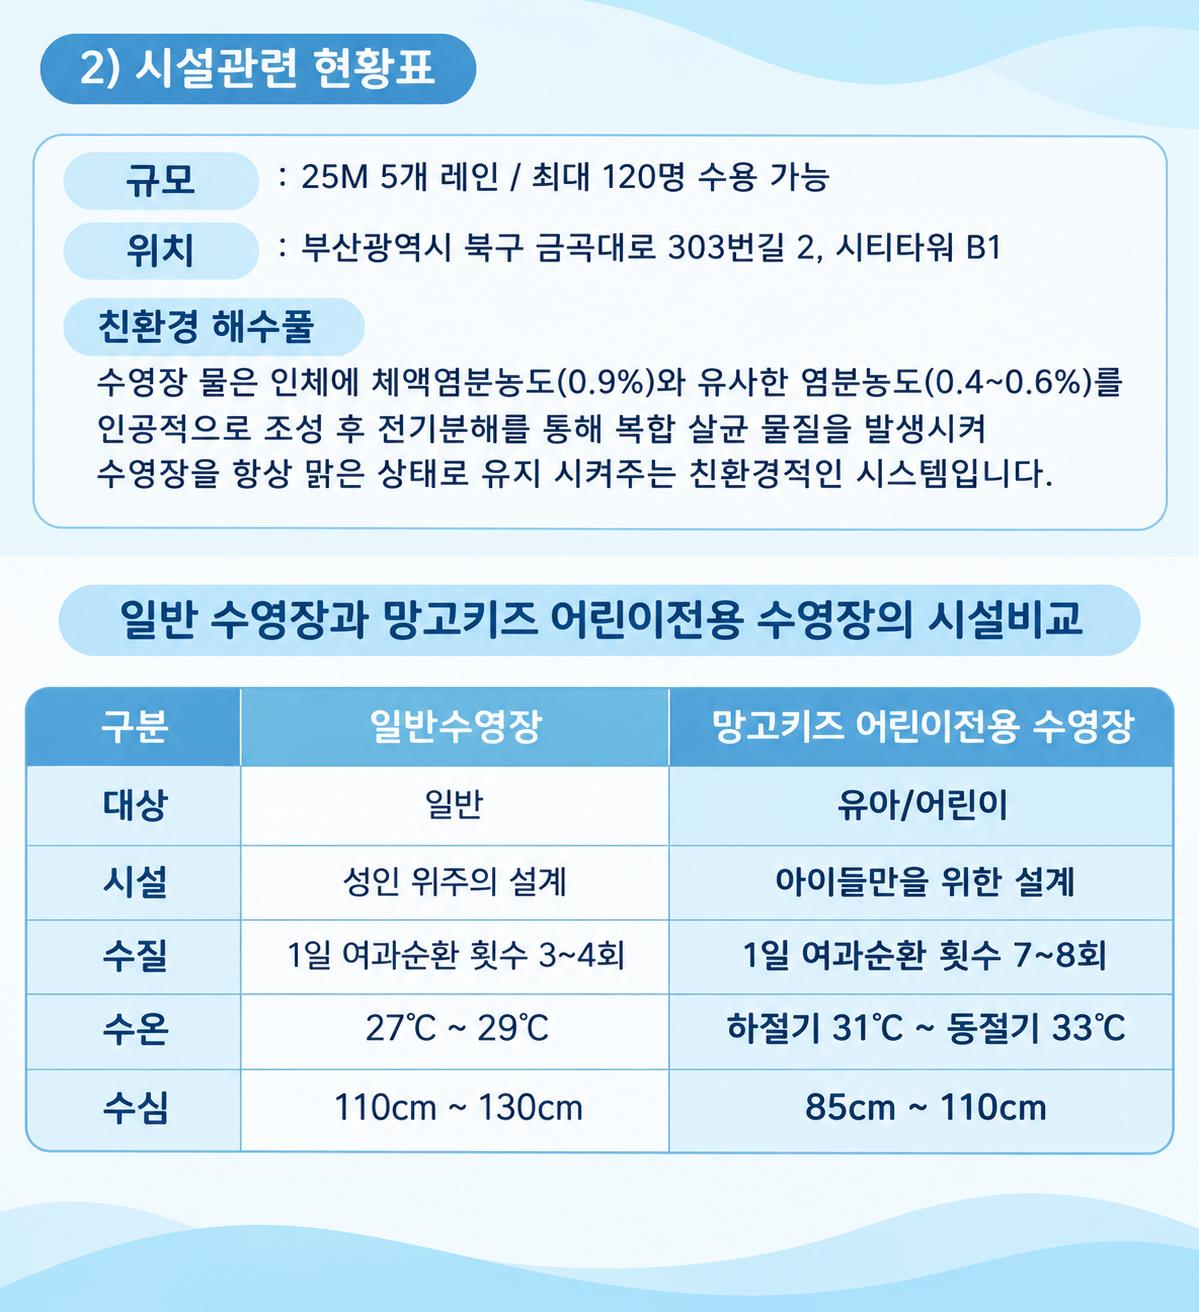
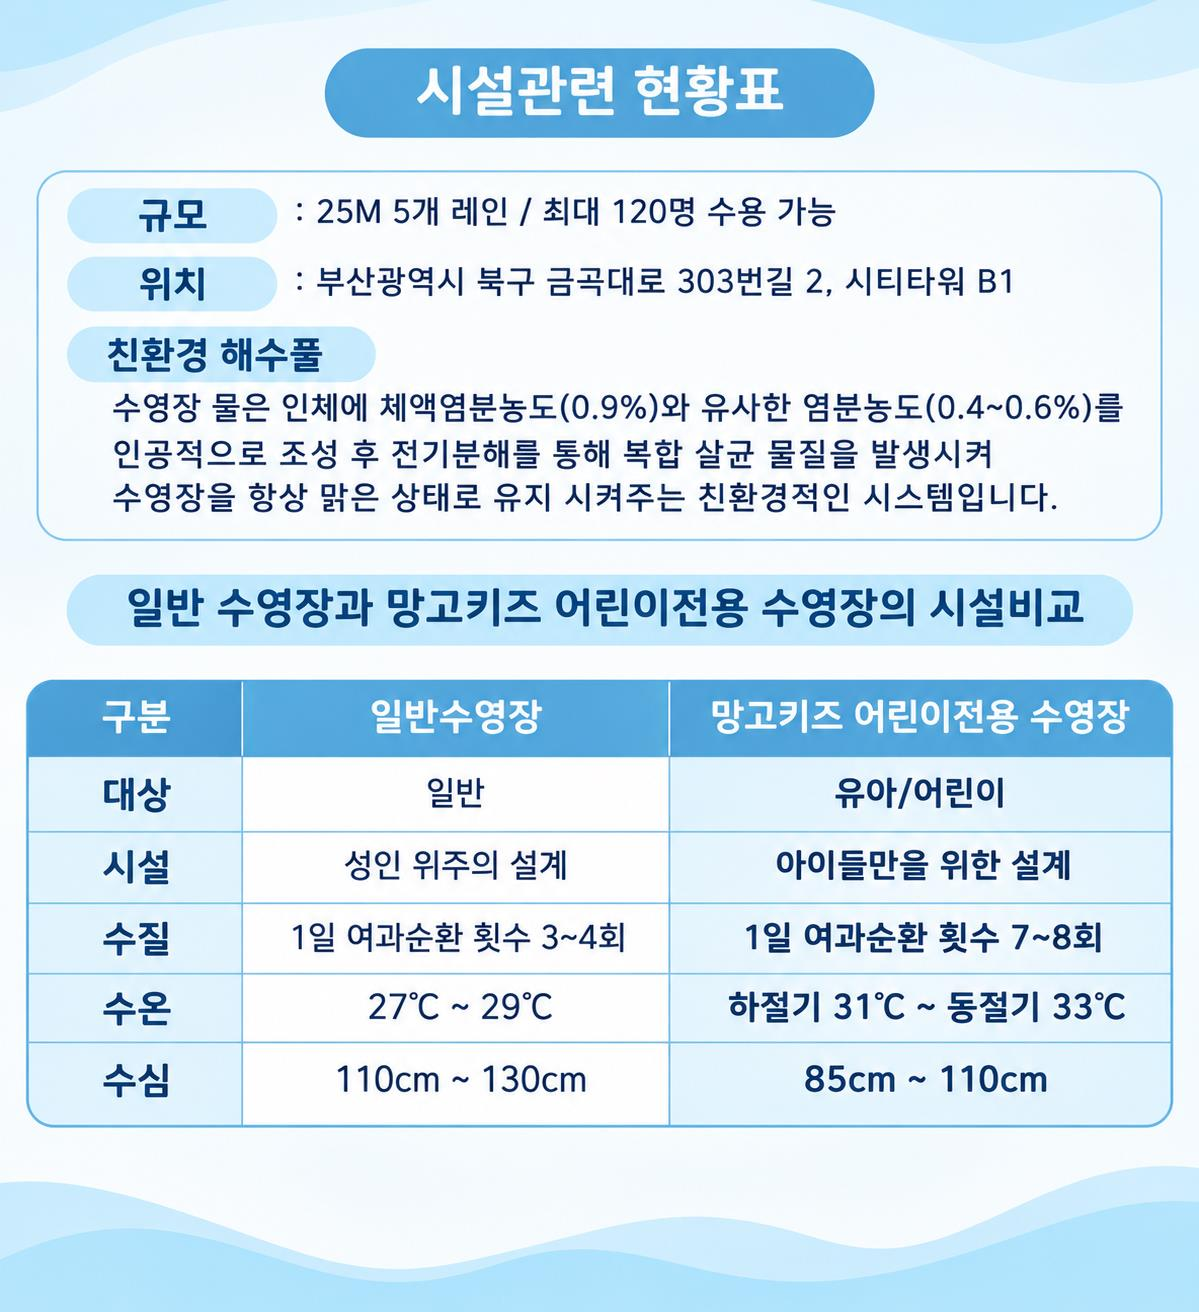
화명본점 현황표 교체 및 시설 상세 안내 추가

diff --git a/index.html b/index.html
@@ -214,7 +214,22 @@
     <section class="section" id="hwamyeong-facilities" aria-labelledby="hwamyeong-facilities-title">
       <div class="wrap">
         <div class="section-heading"><h2 id="hwamyeong-facilities-title">화명본점 시설 안내</h2><p>부산 북구 금곡대로303번길 2 지하1층</p></div>
-        <a href="./assets/hwamyeong-facility-guide.jpg" style="display:block;max-width:800px;margin:0 auto"><img src="./assets/hwamyeong-facility-guide.jpg" width="1199" height="1312" loading="lazy" style="display:block;width:100%;height:auto" alt="화명본점 시설 현황표 크게 보기. 25m 레인 5개, 최대 120명, 수심 85~110cm. 친환경 해수풀과 일반 수영장 시설 비교."></a>
+        <div class="facility-layout">
+          <figure><a href="./assets/hwamyeong-facility-guide.jpg?v=5da4da39"><img src="./assets/hwamyeong-facility-guide.jpg?v=5da4da39" width="1199" height="1312" loading="lazy" alt="화명본점 시설 현황표 원본 크게 보기"></a><figcaption>그림을 누르면 원본 크기로 볼 수 있어요.</figcaption></figure>
+          <div>
+            <h3>25m 레인 5개를 갖춘 어린이풀</h3><p>최대 120명을 수용할 수 있습니다. 어린이풀 옆에는 스플래쉬 풀이 있고, 학부모 관람석에서는 유리창 너머로 수업을 볼 수 있습니다.</p>
+            <h3>친환경 해수풀</h3><p>수영장 물의 염분 농도를 0.4~0.6%로 맞추고, 전기분해로 생성한 살균 물질로 수질을 관리합니다.</p>
+            <table><caption>시설 현황표 기준 비교</caption><thead><tr><th scope="col">구분</th><th scope="col">일반 수영장</th><th scope="col">망고키즈 화명본점</th></tr></thead>
+              <tbody>
+                <tr><th scope="row">대상</th><td>일반</td><td>유아·어린이</td></tr>
+                <tr><th scope="row">시설</th><td>성인 위주의 설계</td><td>어린이를 위한 설계</td></tr>
+                <tr><th scope="row">여과 순환</th><td>하루 3~4회</td><td>해수풀 하루 7~8회</td></tr>
+                <tr><th scope="row">수온</th><td>27~29℃</td><td>하절기 31℃ · 동절기 33℃</td></tr>
+                <tr><th scope="row">수심</th><td>110~130cm</td><td>85~110cm</td></tr>
+              </tbody>
+            </table>
+          </div>
+        </div>
         <div class="facility-photos">
           <figure><a href="./assets/hwamyeong-kids-pool.jpg"><img src="./assets/hwamyeong-kids-pool.jpg" width="1280" height="960" loading="lazy" alt="화명본점 어린이풀의 수영 레인"></a><figcaption>어린이풀</figcaption></figure>
           <figure><a href="./assets/hwamyeong-splash-pool.jpg"><img src="./assets/hwamyeong-splash-pool.jpg" width="1280" height="960" loading="lazy" alt="어린이풀 옆 스플래쉬 풀의 고래 벽화"></a><figcaption>스플래쉬 풀</figcaption></figure>
